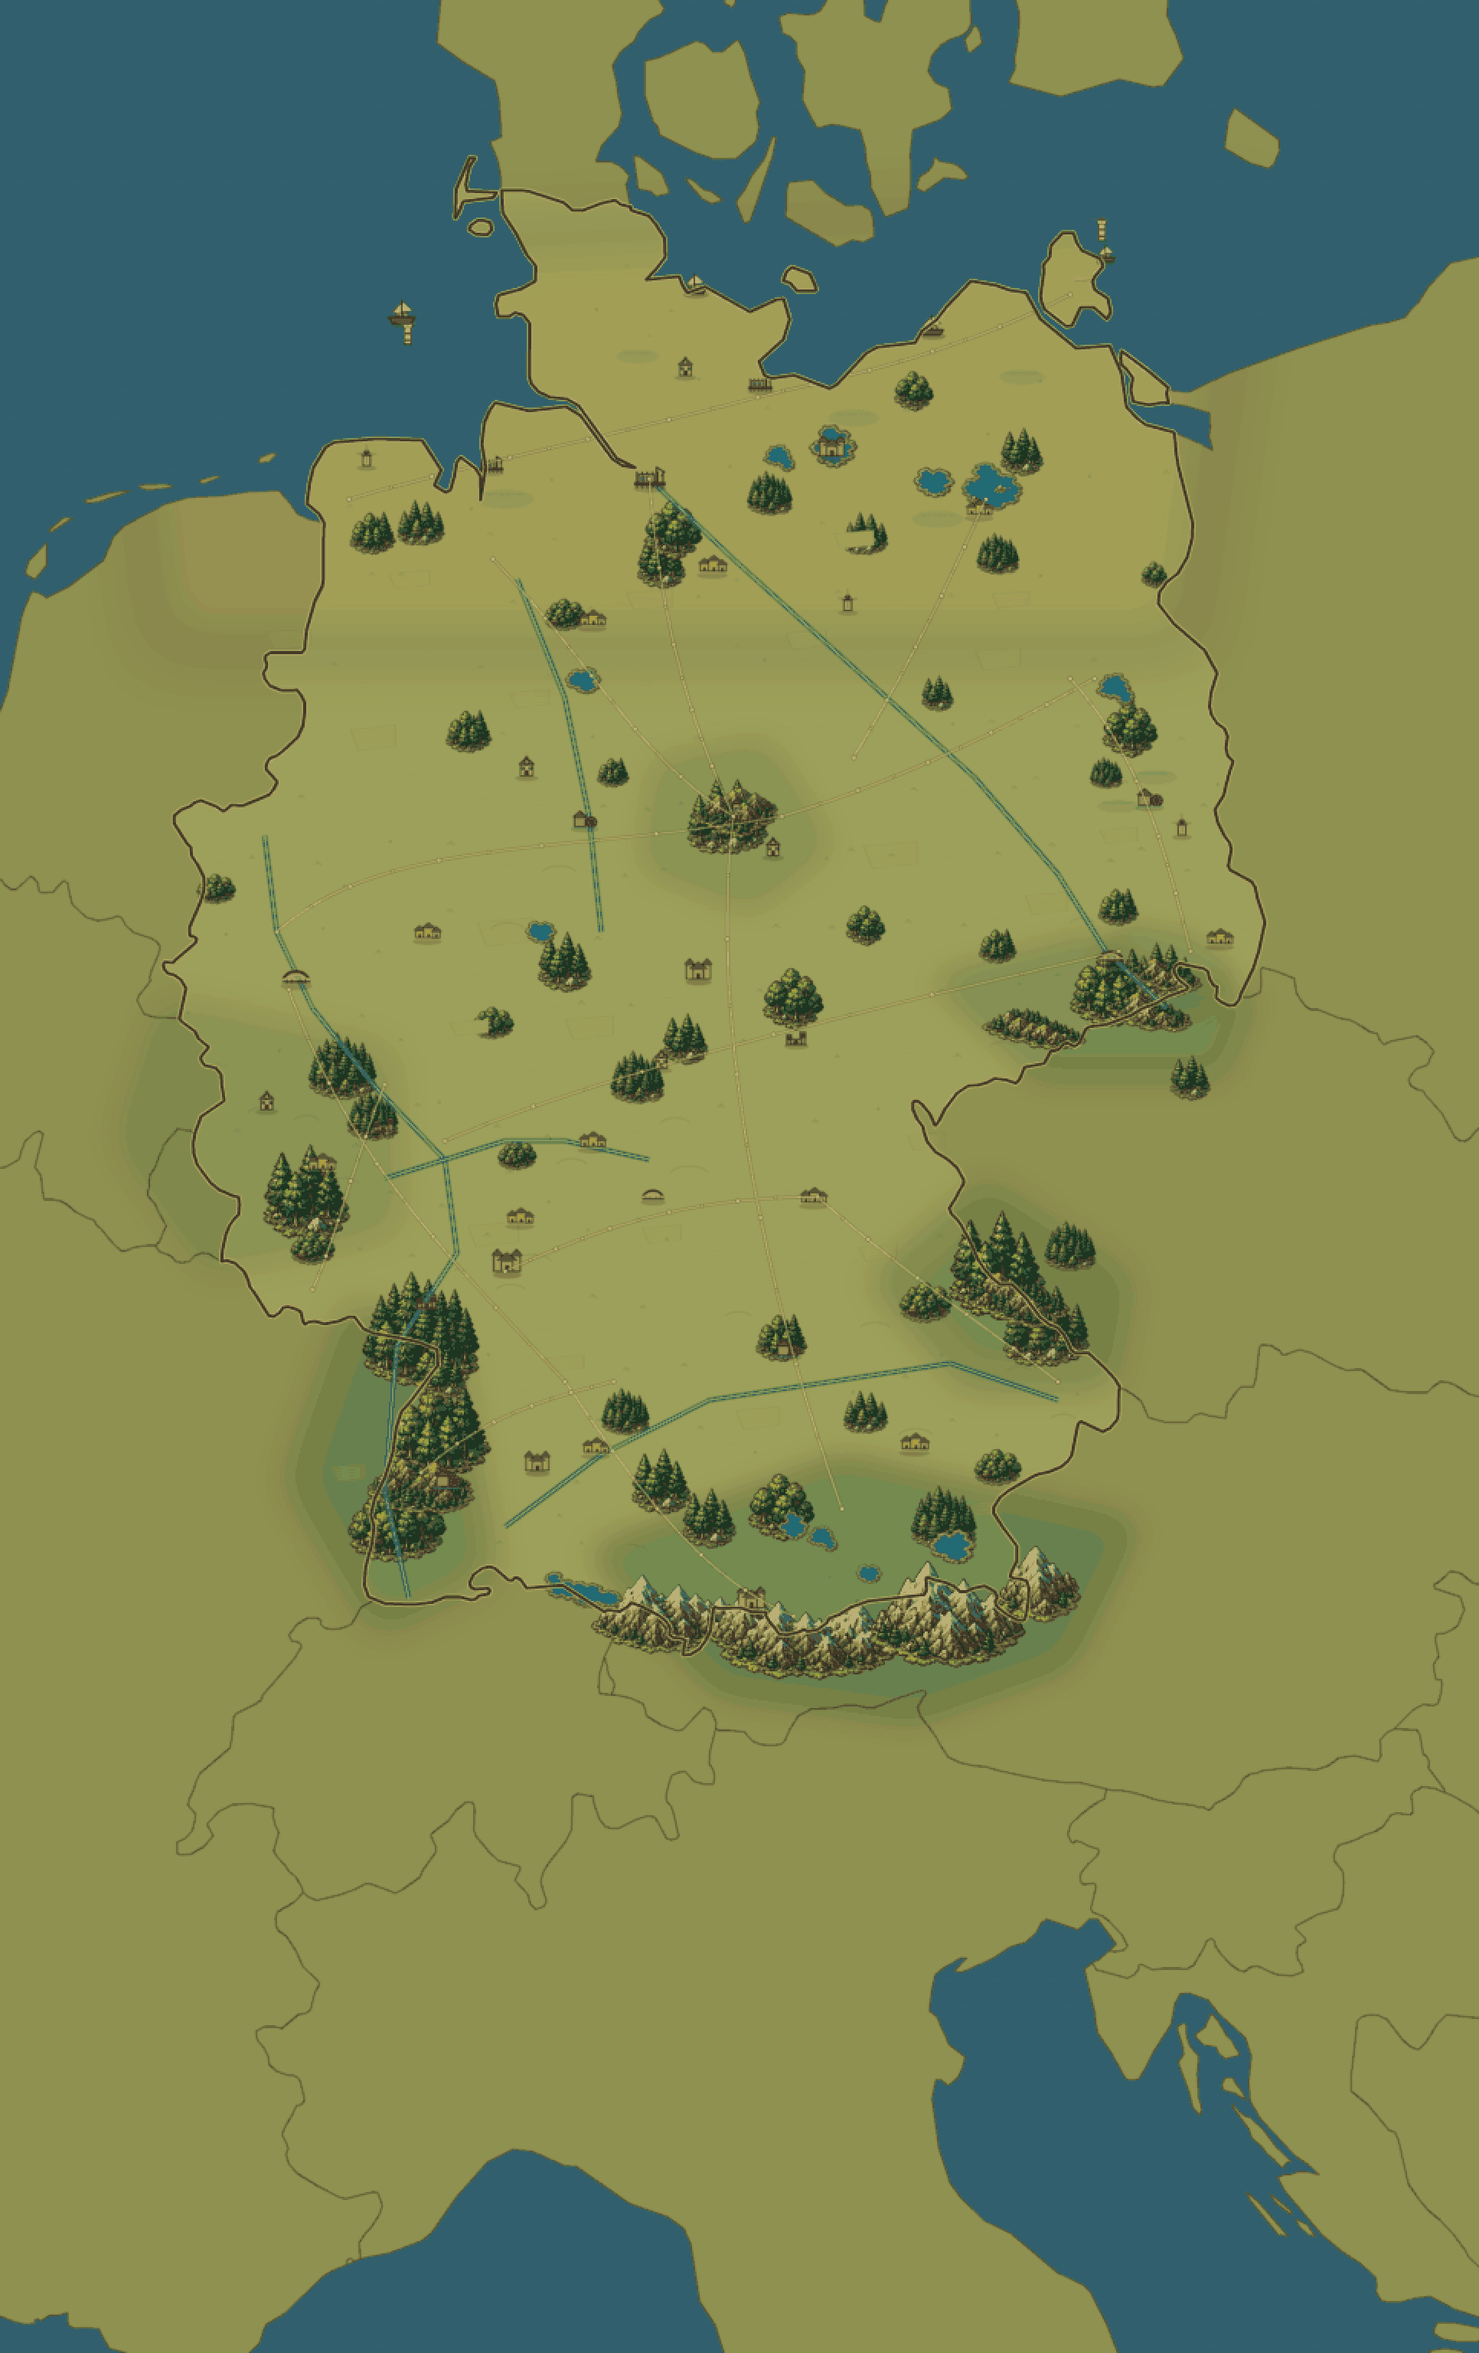
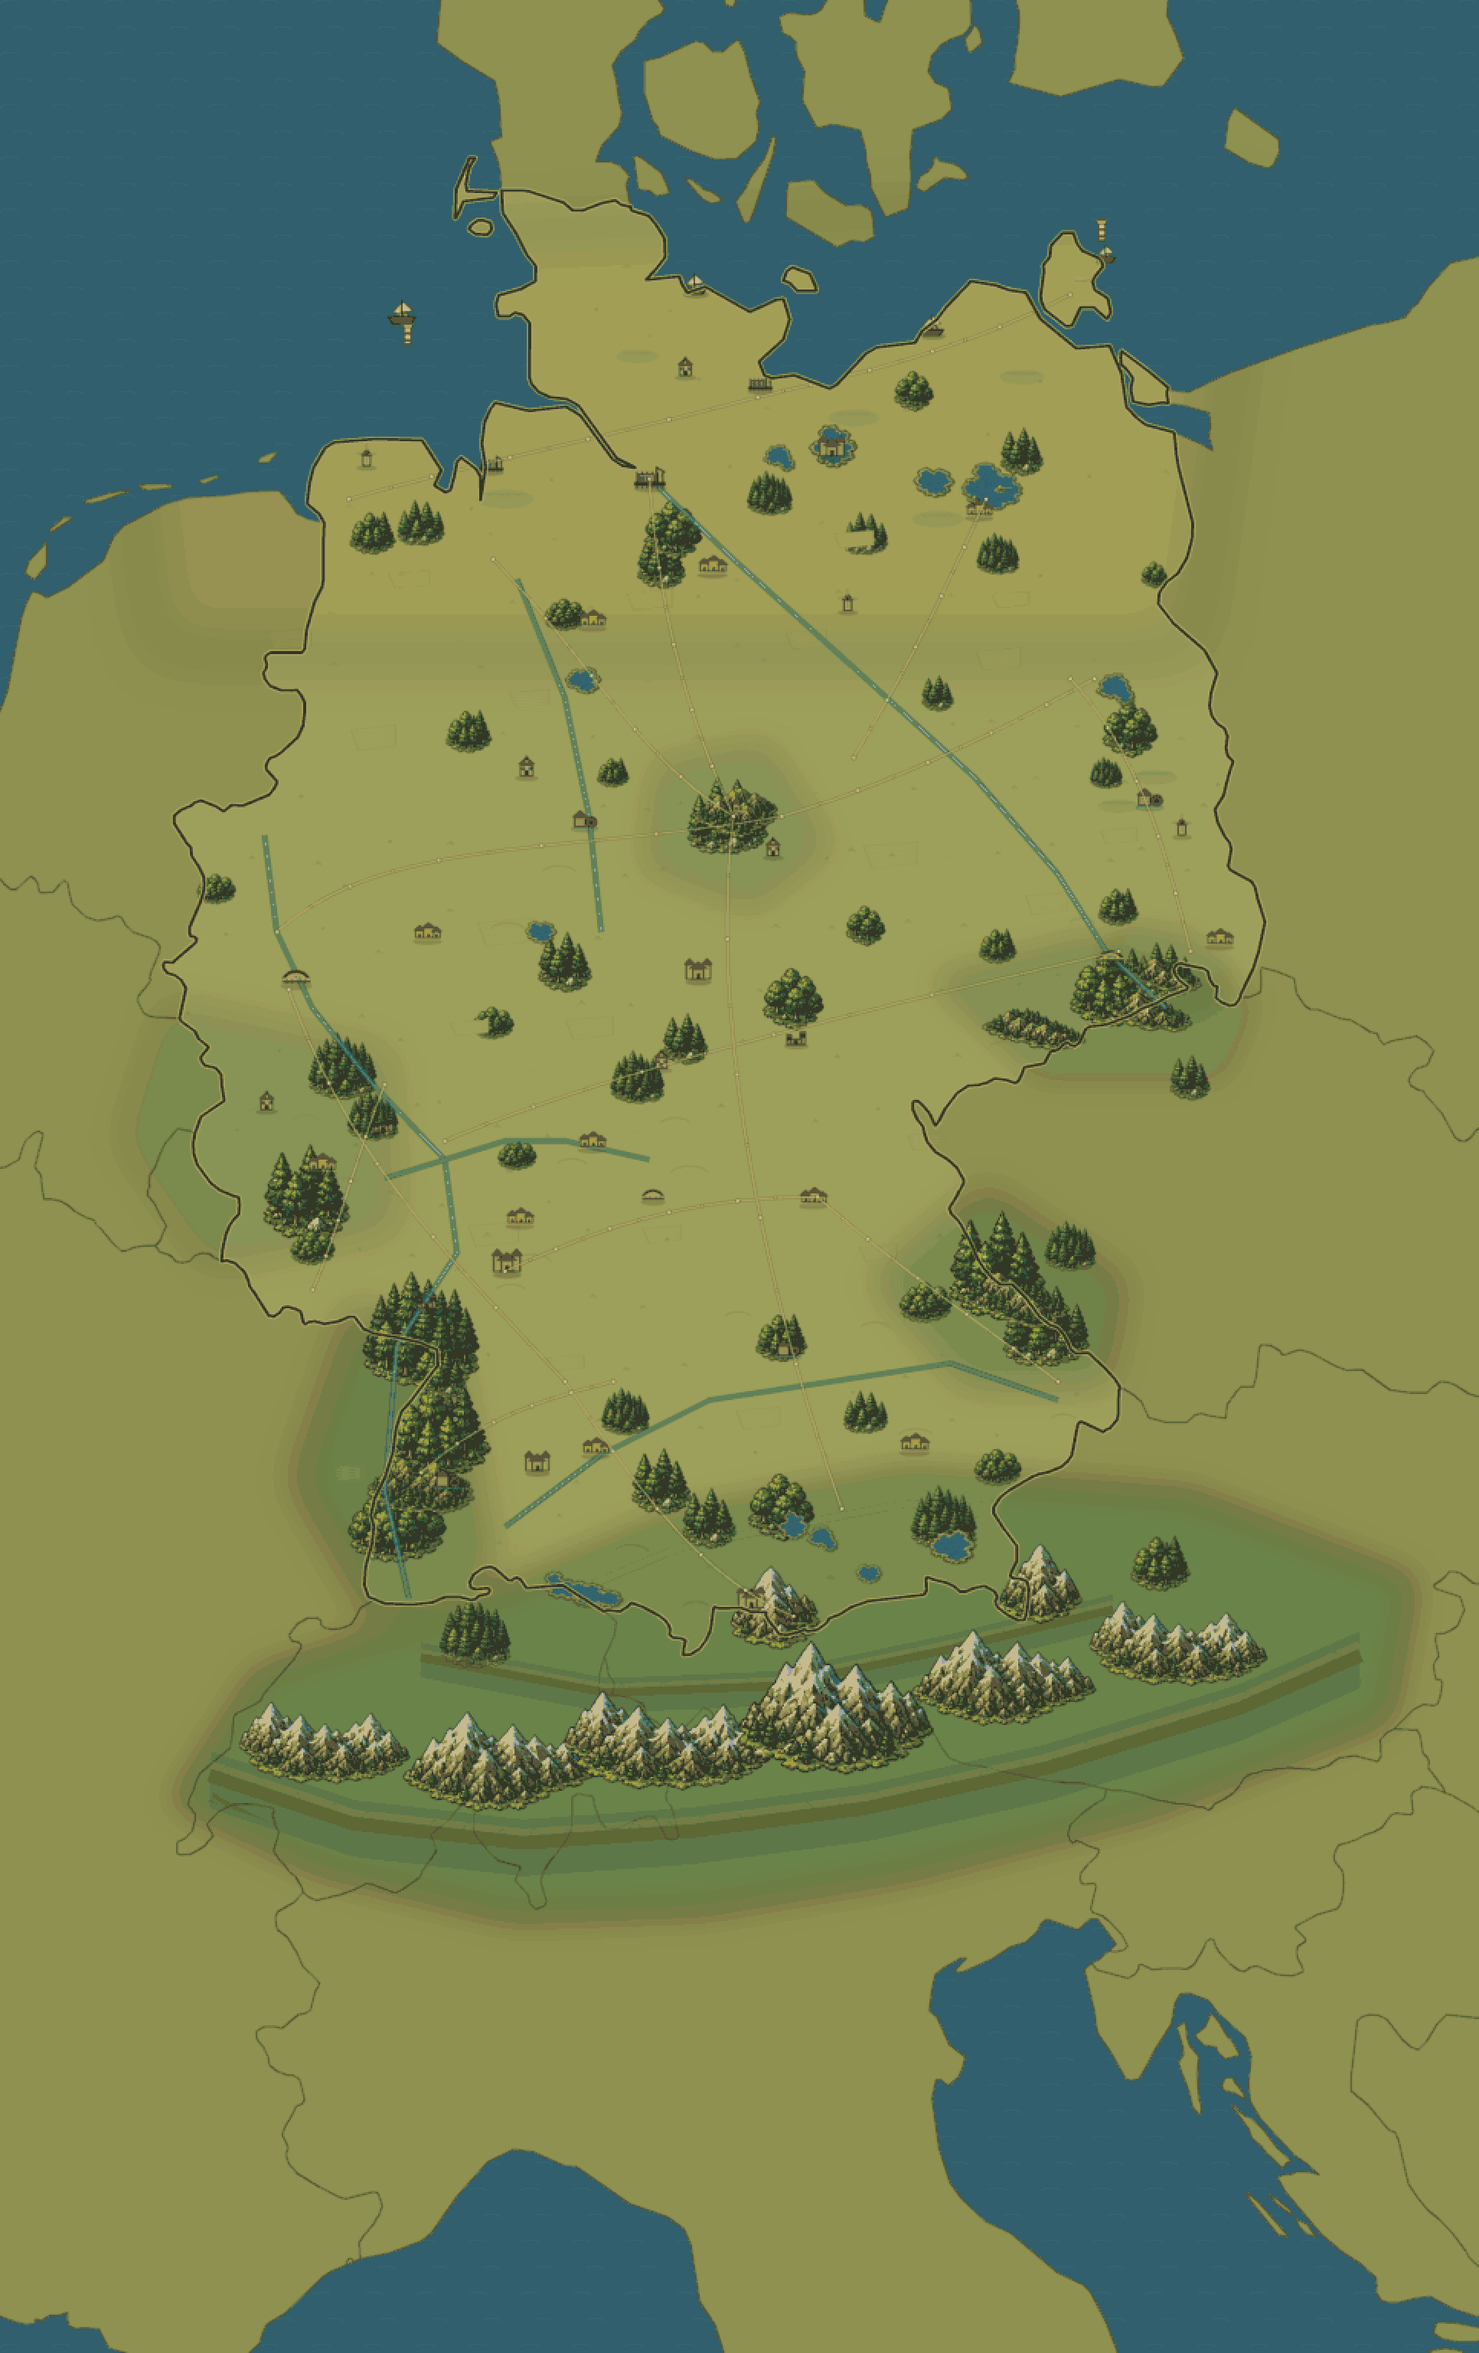
Improve Alpine relief layer

Changed region(s): [[0.1242, 0.625, 0.9627, 0.8438]]

diff --git a/map_pipeline/compose_map.py b/map_pipeline/compose_map.py
@@ -57,13 +57,36 @@ RELIEF_REGIONS = [
         "fill": (58, 112, 63, 112),
         "blur": 20,
         "extends_to": ["France", "Switzerland", "Italy", "Austria", "Slovenia"],
-        "points": [(9.45, 47.85), (10.5, 47.1), (12.1, 46.95), (13.35, 47.25), (13.9, 48.0), (11.5, 48.35)],
-        "trees": [(10.0, 48.2, 44), (11.0, 48.05, 50), (12.35, 48.0, 46)],
+        "points": [
+            (5.95, 46.45), (7.15, 46.05), (8.75, 45.78), (10.35, 45.82),
+            (12.05, 46.02), (14.05, 46.38), (16.05, 46.92), (16.25, 47.70),
+            (14.40, 48.18), (12.05, 48.30), (10.10, 48.05), (8.35, 47.55),
+            (6.65, 47.18),
+        ],
+        "trees": [(8.45, 47.35, 50), (10.0, 48.2, 44), (11.0, 48.05, 50), (12.35, 48.0, 46), (14.15, 47.75, 44)],
+        "ridge_bands": [
+            {
+                "id": "main_alpine_wall",
+                "points": [(6.25, 46.62), (7.45, 46.34), (8.85, 46.23), (10.25, 46.30), (11.70, 46.43), (13.20, 46.66), (14.80, 47.00), (15.80, 47.30)],
+                "height": 82,
+                "step": 42,
+            },
+            {
+                "id": "northern_alpine_foothills",
+                "points": [(8.00, 47.28), (9.55, 47.08), (10.95, 47.12), (12.35, 47.32), (13.75, 47.55)],
+                "height": 50,
+                "step": 48,
+            },
+        ],
         "mountain_glyphs": [
-            ("alps_range_1", 10.05, 47.45, 210),
-            ("alps_range_3", 11.20, 47.33, 265),
-            ("alps_range_2", 12.38, 47.43, 220),
-            ("alps_peak_2", 13.15, 47.62, 120),
+            ("alps_range_3", 7.20, 46.72, 235),
+            ("alps_range_1", 8.65, 46.60, 265),
+            ("alps_range_3", 10.05, 46.72, 285),
+            ("alps_range_2", 11.45, 46.88, 275),
+            ("alps_range_1", 12.85, 47.08, 255),
+            ("alps_range_3", 14.30, 47.28, 245),
+            ("alps_peak_2", 10.95, 47.48, 130),
+            ("alps_peak_1", 13.15, 47.62, 125),
         ],
         "mountains": [],
     },
@@ -371,6 +394,8 @@ def _draw_terrain(canvas, proj, land_mask):
     for region in RELIEF_REGIONS:
         for lon, lat, size in region.get("trees", []):
             _draw_tree_cluster(decor, proj, lon, lat, size)
+        for ridge_band in region.get("ridge_bands", []):
+            _draw_alpine_ridge_band(decor, proj, ridge_band)
         for glyph_name, lon, lat, width in region.get("mountain_glyphs", []):
             _draw_glyph_center(decor, proj, glyph_name, lon, lat, width)
         for lon, lat, size in region.get("mountains", []):
@@ -577,6 +602,44 @@ def _draw_tree_cluster(canvas, proj, lon, lat, radius):
     glyphs = ["forest_cluster_1", "forest_cluster_2", "forest_cluster_3", "forest_cluster_4", "forest_cluster_5", "forest_cluster_6"]
     glyph = glyphs[_stable_hash(round(lon, 2), round(lat, 2), int(radius)) % len(glyphs)]
     _draw_glyph_at(canvas, glyph, x, y, radius * 2.0)
+
+
+def _draw_alpine_ridge_band(canvas, proj, ridge_band):
+    points = [_project_point(proj, lon, lat) for lon, lat in ridge_band["points"]]
+    if len(points) < 2:
+        return
+
+    ridge_layer = Image.new("RGBA", canvas.size, (0, 0, 0, 0))
+    draw = ImageDraw.Draw(ridge_layer)
+    height = int(ridge_band.get("height", 72) * RENDER_SCALE)
+    lower_points = [(x, y + int(height * 0.58)) for x, y in reversed(points)]
+    upper_points = [(x, y - int(height * 0.32)) for x, y in points]
+    band_polygon = upper_points + lower_points
+    draw.polygon(band_polygon, fill=(56, 86, 55, 76))
+    draw.line(points, fill=(74, 75, 49, 122), width=max(2, int(height * 0.34)), joint="curve")
+    draw.line([(x, y - int(height * 0.12)) for x, y in points], fill=(134, 124, 74, 92), width=max(2, int(height * 0.12)), joint="curve")
+    draw.line([(x, y + int(height * 0.40)) for x, y in points], fill=(39, 67, 48, 74), width=max(2, int(height * 0.20)), joint="curve")
+
+    step = max(18 * RENDER_SCALE, int(ridge_band.get("step", 44) * RENDER_SCALE))
+    for start, end in zip(points, points[1:]):
+        dx = end[0] - start[0]
+        dy = end[1] - start[1]
+        segment_length = max(1.0, math.hypot(dx, dy))
+        count = max(1, int(segment_length / step))
+        normal_x = -dy / segment_length
+        normal_y = dx / segment_length
+        for index in range(count):
+            t = (index + 0.35) / count
+            cx = start[0] + dx * t
+            cy = start[1] + dy * t
+            mark = int(height * (0.10 + 0.02 * ((index + count) % 3)))
+            left = (int(cx - dx / segment_length * mark * 0.95), int(cy - dy / segment_length * mark * 0.95))
+            peak = (int(cx - normal_x * mark * 1.35), int(cy - normal_y * mark * 1.35))
+            right = (int(cx + dx / segment_length * mark * 0.95), int(cy + dy / segment_length * mark * 0.95))
+            draw.line([left, peak, right], fill=(54, 48, 33, 90), width=max(1, RENDER_SCALE), joint="curve")
+
+    ridge_layer = ridge_layer.filter(ImageFilter.GaussianBlur(0.30 * RENDER_SCALE))
+    canvas.alpha_composite(ridge_layer)
 
 
 def _forest_sprite(radius):

diff --git a/tests/test_map_panel_contract.py b/tests/test_map_panel_contract.py
@@ -289,8 +289,12 @@ class MapPanelContractTest(unittest.TestCase):
             '"id": "alps"',
             '"glyph": "alpine"',
             "MAP_SIZE = (1932, 3072)",
+            '"ridge_bands": [',
+            '"id": "main_alpine_wall"',
+            '"id": "northern_alpine_foothills"',
             '"mountain_glyphs": [',
-            '("alps_range_1", 10.05, 47.45, 210)',
+            '("alps_range_3", 10.05, 46.72, 285)',
+            '("alps_range_1", 12.85, 47.08, 255)',
             '("highland_forest_1", 10.62, 51.78, 118)',
             '("border_highland_1", 13.10, 50.66, 145)',
             '"extends_to": ["France", "Switzerland", "Italy", "Austria", "Slovenia"]',
@@ -309,6 +313,8 @@ class MapPanelContractTest(unittest.TestCase):
             '"mountains": []',
             "for region in RELIEF_REGIONS:",
             'for glyph_name, lon, lat, width in region.get("mountain_glyphs", []):',
+            'for ridge_band in region.get("ridge_bands", []):',
+            "def _draw_alpine_ridge_band(canvas, proj, ridge_band):",
             "_draw_glyph_center(decor, proj, glyph_name, lon, lat, width)",
             'for lon, lat, size in region.get("mountains", []):',
             'region.get("glyph", "alpine")',

diff --git a/docs/active-map-backlog.md b/docs/active-map-backlog.md
@@ -43,6 +43,7 @@
 - [x] Сделать стартовый zoom адаптивным: portrait остается крупным, landscape/desktop не получает дополнительный `1.10` zoom и меньше режет ориентиры у краев.
 - [ ] #62 Перевести рельеф из декоративных гор в точные переиспользуемые overlay-слои: Alps, Harz, Black Forest, Erzgebirge, Bavarian Forest и другие реальные массивы. Германия начата; нужно расширить и проверить слой по Европе.
 - [x] Начать настройку масштаба/якорей terrain glyphs через явные `mountain_glyphs`: Альпы, Harz, Erzgebirge, Black Forest и Bavarian Forest больше не выбираются hash-ом.
+- [x] Сделать первый непрерывный cross-border pass для Альп: explicit `main_alpine_wall` и `northern_alpine_foothills` ridge bands плюс перераспределенные `alps_range_*` glyphs вместо короткого обрубленного массива только у юга Германии.
 - [ ] Проверить и откалибровать `mountain_glyphs` по реальным relief extents: Альпы должны начинаться/заканчиваться по настоящему массиву, Harz/Erzgebirge/Black Forest/Bavarian Forest не должны расползаться за свои области.
 - [ ] #64 Провести terrain accuracy audit текущей Германии: убрать ложные большие горы у Hamburg/севера и проверить, что все видимые горы соответствуют реальности.
 - [ ] #63 Спроектировать Europe map pipeline для следующих стран и регионов: France, Spain, Italy, Switzerland, Austria, Germany neighbors, Scandinavia, Finland, Baltics, Russia, Belarus, Ukraine до украинских гор, Turkey; рельефные слои должны продолжаться через границы.
@@ -56,5 +57,5 @@
 ## Current Known State
 
 - Карта на `http://127.0.0.1:9000/` пересобрана из `main`.
-- Последний map commit на момент обновления backlog: pending map texture aspect/resolution iteration.
+- Последний map commit на момент обновления backlog: pending Alpine ridge-band iteration.
 - Текущая карта технически рабочая и архитектурно движется в glyph-based direction. Честная оценка после screenshots: около `6/10`. Нельзя оценивать ее как `8/10`: нужна более сильная художественная плотность, audit рельефа/озер/координат, отдельные high-quality mountain glyphs for Alps/etc. и дальнейшая Европа через explicit layers.

diff --git a/docs/map-orchestrator-progress.md b/docs/map-orchestrator-progress.md
@@ -341,3 +341,30 @@ Checks:
 - `PLAYWRIGHT_PACKAGE=/tmp/cable-playwright/node_modules/playwright URL=http://127.0.0.1:9000/ node scripts/verify-web-map.mjs`: screenshots regenerated.
 
 Self-audit: still around `6/10`. This removes a technical quality blocker: stretched geometry and source upscaling at `150%`. It does not yet solve the artistic target for Alps/relief glyphs or the overall `8/10+` visual density.
+
+## Iteration 2026-05-31 16:41
+
+Implemented:
+
+- Expanded the Alps relief from a Germany-edge patch into a cross-border band spanning France, Switzerland, Italy and Austria inside the current extended map bounds.
+- Added explicit `ridge_bands` for `main_alpine_wall` and `northern_alpine_foothills`, rendered before the individual mountain glyphs.
+- Replaced the first geometric/sawtooth ridge attempt with a softer continuous ridge layer so the Alps read as one mountain mass instead of isolated pasted icons.
+- Redistributed `alps_range_*` and `alps_peak_*` glyphs across the Alpine arc.
+- Rechecked the active zoom requirement: runtime zoom is capped at `50%..150%`, the zoom percentage is visible on screen, and the base map source remains `1932x3072` so `150%` does not upscale the base texture above its source pixels in the tested mobile/desktop views.
+
+Evidence:
+
+- `assets/map/germany_styled.png`: `1932x3072`, about 453 KB.
+- `/tmp/cable-world-web-map/mobile-390x844-initial.png` shows northern Germany plus München/Alps reachable in the same extended map.
+- `/tmp/cable-world-web-map/mobile-390x844-after-drag.png` shows the `150%` zoom cap and scaled glyph/marker presentation.
+- `/tmp/cable-world-web-map/desktop-1280x800-initial.png` shows the same map without the previous texture stretch.
+- `curl -I --compressed http://127.0.0.1:9000/index.pck`: `Content-Encoding: gzip`, `Cache-Control: no-store`.
+
+Checks:
+
+- `python3 -m unittest tests.test_map_panel_contract`: 12 OK.
+- `godot --headless --path . --import --quit`: no parse/import errors. Existing worktree warning and adb daemon warning remain.
+- Web export rebuilt and served on `http://127.0.0.1:9000/`.
+- `PLAYWRIGHT_PACKAGE=/tmp/cable-playwright/node_modules/playwright URL=http://127.0.0.1:9000/ node scripts/verify-web-map.mjs`: screenshots regenerated.
+
+Self-audit: still around `6/10`. The Alps are now structurally closer to the requested direction, but this is not the final 8/10+ art pass. The next quality step remains a proper high-resolution terrain glyph set and relief/lake/city-position audit, with source assets sized for the `150%` maximum.
